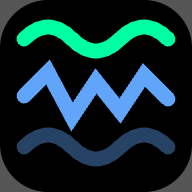
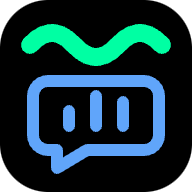
feat: 리캡 전용 파비콘 적용

diff --git a/ui/prototypes/파비콘 검토.html b/ui/prototypes/파비콘 검토.html
@@ -1,0 +1,52 @@
+<!doctype html>
+<html lang="ko" class="dark">
+<head>
+  <meta charset="utf-8">
+  <meta name="viewport" content="width=device-width, initial-scale=1">
+  <meta name="robots" content="noindex,nofollow">
+  <title>리캡 파비콘 검토</title>
+  <link rel="icon" type="image/svg+xml" href="./리캡 아이콘.svg">
+  <link rel="stylesheet" href="/styles/tokens.css">
+  <style>
+    * { box-sizing: border-box; }
+    body { margin: 0; padding: 48px 28px; background: var(--background); color: var(--foreground); font-family: var(--font-sans); }
+    main { max-width: 1040px; margin: auto; }
+    header { display: flex; gap: 24px; align-items: center; margin-bottom: 40px; }
+    header img { width: 88px; height: 88px; }
+    h1 { font-size: 30px; letter-spacing: -1px; margin: 0 0 10px; }
+    p { color: var(--muted-foreground); font-size: 14px; line-height: 1.7; margin: 0; }
+    h2 { font-size: 15px; margin: 0 0 24px; }
+    section { border: 1px solid var(--border); border-radius: 16px; padding: 28px; margin-bottom: 20px; }
+    .sizes { display: flex; align-items: end; gap: 32px; flex-wrap: wrap; }
+    figure { margin: 0; min-width: 48px; text-align: center; }
+    figure img { display: block; margin: auto; }
+    figcaption { font: 12px var(--font-mono); color: var(--muted-foreground); margin-top: 18px; }
+    .backgrounds { display: grid; grid-template-columns: 1fr 1fr; gap: 20px; }
+    .surface { border-radius: 12px; padding: 28px; min-height: 150px; }
+    .surface.light { background: #f5f5f5; color: #202420; }
+    .surface.dark { background: #171b1a; color: #edf4ef; }
+    .surface h2 { font-size: 12px; font-weight: 500; opacity: .65; }
+    .tabs { margin-top: 28px; display: flex; align-items: center; gap: 10px; border-bottom: 1px solid var(--border); padding-bottom: 16px; font-size: 13px; }
+    .tabs img { width: 16px; height: 16px; }
+    .comparison { display: flex; align-items: center; gap: 28px; flex-wrap: wrap; }
+    .comparison figure { display: flex; align-items: center; gap: 16px; text-align: left; }
+    .comparison figcaption { margin: 0; font-family: var(--font-sans); font-size: 13px; }
+    .comparison img { width: 48px; height: 48px; }
+    @media(max-width: 600px) { body { padding: 28px 16px; } section { padding: 20px; } .backgrounds { grid-template-columns: 1fr; } header { align-items: start; } h1 { font-size: 24px; } .sizes { gap: 24px; } }
+  </style>
+</head>
+<body><main>
+  <header><img src="./리캡 아이콘.svg" alt="리캡 아이콘 시안"><div><h1>리캡 파비콘</h1><p>초록 물결은 유지하고, 파란 지직선을 채팅 말풍선과 활동 막대로 바꿨습니다.<br>서비스 파비콘에 반영한 디자인입니다.</p></div></header>
+  <section><h2>실제 픽셀 크기</h2><div class="sizes" id="sizes"></div></section>
+  <div class="backgrounds">
+    <div class="surface light"><h2>밝은 배경</h2><div class="sizes" data-surface></div><div class="tabs"><img src="./리캡 아이콘.svg" alt="">치지직 리캡 · 내 채팅 기록 <span aria-hidden="true">×</span></div></div>
+    <div class="surface dark"><h2>어두운 배경</h2><div class="sizes" data-surface></div><div class="tabs"><img src="./리캡 아이콘.svg" alt="">치지직 리캡 · 내 채팅 기록 <span aria-hidden="true">×</span></div></div>
+  </div>
+  <section style="margin-top:20px"><h2>기존 아이콘과 비교</h2><div class="comparison"><figure><img src="./기존 Lab 아이콘.svg" alt="기존 Lab 파비콘"><figcaption>기존 Lab<br>물결과 지직선</figcaption></figure><span aria-hidden="true">→</span><figure><img src="./리캡 아이콘.svg" alt="리캡 파비콘 시안"><figcaption>리캡 시안<br>물결과 채팅 기록</figcaption></figure></div></section>
+  <p>SVG 시안 · 서비스 파비콘 반영 · SVG 및 크기별 PNG 저장</p>
+</main><script>
+  function samples(sizes) { return sizes.map(size => `<figure><img src="./리캡 아이콘.svg" width="${size}" height="${size}" alt="${size}px 리캡 아이콘"><figcaption>${size}px</figcaption></figure>`).join(''); }
+  document.getElementById('sizes').innerHTML = samples([16, 20, 24, 32, 48, 64, 128]);
+  document.querySelectorAll('[data-surface]').forEach(surface => surface.innerHTML = samples([16, 24, 32, 48]));
+</script></body>
+</html>

diff --git a/ui/index.html b/ui/index.html
@@ -13,11 +13,12 @@
     <meta property="og:title" content="치지직 리캡 | 내 채팅 기록과 채널별 통계 · recap" />
     <meta property="og:description" content="내가 채팅을 많이 남긴 채널과 활동 시간대를 확인하는 비공식 치지직 채팅 리캡입니다." />
     <meta property="og:url" content="https://recap.cheese-lake.com/" />
-    <!-- 아이콘. favicon.svg 는 16~24px 전용으로 지직선을 4분절로 줄인 판이다. -->
-    <link rel="icon" type="image/svg+xml" href="/favicon.svg" />
-    <link rel="icon" type="image/png" sizes="32x32" href="/favicon-32.png" />
-    <link rel="icon" type="image/png" sizes="16x16" href="/favicon-16.png" />
-    <link rel="apple-touch-icon" href="/apple-touch-icon.png" />
+    <!-- 리캡 아이콘. v 값은 이전 파비콘 캐시와 구분한다. -->
+    <link rel="icon" type="image/x-icon" sizes="16x16 32x32 48x48" href="/favicon.ico?v=recap1" />
+    <link rel="icon" type="image/png" sizes="32x32" href="/favicon-32.png?v=recap1" />
+    <link rel="icon" type="image/png" sizes="16x16" href="/favicon-16.png?v=recap1" />
+    <link rel="icon" type="image/svg+xml" sizes="any" href="/favicon.svg?v=recap1" />
+    <link rel="apple-touch-icon" sizes="180x180" href="/apple-touch-icon.png?v=recap1" />
     <link rel="preconnect" href="https://cdn.jsdelivr.net" />
     <link
       rel="stylesheet"

diff --git a/ui/privacy/index.html b/ui/privacy/index.html
@@ -5,11 +5,12 @@
     <meta name="viewport" content="width=device-width, initial-scale=1.0" />
     <meta name="description" content="recap 개인정보 처리방침" />
     <title>개인정보 처리방침 · recap</title>
-    <!-- 아이콘. favicon.svg 는 16~24px 전용으로 지직선을 4분절로 줄인 판이다. -->
-    <link rel="icon" type="image/svg+xml" href="/favicon.svg" />
-    <link rel="icon" type="image/png" sizes="32x32" href="/favicon-32.png" />
-    <link rel="icon" type="image/png" sizes="16x16" href="/favicon-16.png" />
-    <link rel="apple-touch-icon" href="/apple-touch-icon.png" />
+    <!-- 리캡 아이콘. v 값은 이전 파비콘 캐시와 구분한다. -->
+    <link rel="icon" type="image/x-icon" sizes="16x16 32x32 48x48" href="/favicon.ico?v=recap1" />
+    <link rel="icon" type="image/png" sizes="32x32" href="/favicon-32.png?v=recap1" />
+    <link rel="icon" type="image/png" sizes="16x16" href="/favicon-16.png?v=recap1" />
+    <link rel="icon" type="image/svg+xml" sizes="any" href="/favicon.svg?v=recap1" />
+    <link rel="apple-touch-icon" sizes="180x180" href="/apple-touch-icon.png?v=recap1" />
   </head>
   <body>
     <div id="root"></div>

diff --git a/ui/terms/index.html b/ui/terms/index.html
@@ -5,11 +5,12 @@
     <meta name="viewport" content="width=device-width, initial-scale=1.0" />
     <meta name="description" content="recap 이용약관" />
     <title>이용약관 · recap</title>
-    <!-- 아이콘. favicon.svg 는 16~24px 전용으로 지직선을 4분절로 줄인 판이다. -->
-    <link rel="icon" type="image/svg+xml" href="/favicon.svg" />
-    <link rel="icon" type="image/png" sizes="32x32" href="/favicon-32.png" />
-    <link rel="icon" type="image/png" sizes="16x16" href="/favicon-16.png" />
-    <link rel="apple-touch-icon" href="/apple-touch-icon.png" />
+    <!-- 리캡 아이콘. v 값은 이전 파비콘 캐시와 구분한다. -->
+    <link rel="icon" type="image/x-icon" sizes="16x16 32x32 48x48" href="/favicon.ico?v=recap1" />
+    <link rel="icon" type="image/png" sizes="32x32" href="/favicon-32.png?v=recap1" />
+    <link rel="icon" type="image/png" sizes="16x16" href="/favicon-16.png?v=recap1" />
+    <link rel="icon" type="image/svg+xml" sizes="any" href="/favicon.svg?v=recap1" />
+    <link rel="apple-touch-icon" sizes="180x180" href="/apple-touch-icon.png?v=recap1" />
   </head>
   <body>
     <div id="root"></div>

diff --git a/ui/recap/channel/index.html b/ui/recap/channel/index.html
@@ -3,6 +3,12 @@
   <head>
     <meta charset="UTF-8" />
     <meta name="viewport" content="width=device-width, initial-scale=1.0" />
+    <!-- 리캡 아이콘. v 값은 이전 파비콘 캐시와 구분한다. -->
+    <link rel="icon" type="image/x-icon" sizes="16x16 32x32 48x48" href="/favicon.ico?v=recap1" />
+    <link rel="icon" type="image/png" sizes="32x32" href="/favicon-32.png?v=recap1" />
+    <link rel="icon" type="image/png" sizes="16x16" href="/favicon-16.png?v=recap1" />
+    <link rel="icon" type="image/svg+xml" sizes="any" href="/favicon.svg?v=recap1" />
+    <link rel="apple-touch-icon" sizes="180x180" href="/apple-touch-icon.png?v=recap1" />
     <meta name="robots" content="noindex, nofollow" />
     <title>이 채널에서의 내 기록 · recap</title>
   </head>

diff --git a/ui/me/index.html b/ui/me/index.html
@@ -3,6 +3,12 @@
   <head>
     <meta charset="UTF-8" />
     <meta name="viewport" content="width=device-width, initial-scale=1.0" />
+    <!-- 리캡 아이콘. v 값은 이전 파비콘 캐시와 구분한다. -->
+    <link rel="icon" type="image/x-icon" sizes="16x16 32x32 48x48" href="/favicon.ico?v=recap1" />
+    <link rel="icon" type="image/png" sizes="32x32" href="/favicon-32.png?v=recap1" />
+    <link rel="icon" type="image/png" sizes="16x16" href="/favicon-16.png?v=recap1" />
+    <link rel="icon" type="image/svg+xml" sizes="any" href="/favicon.svg?v=recap1" />
+    <link rel="apple-touch-icon" sizes="180x180" href="/apple-touch-icon.png?v=recap1" />
     <meta name="robots" content="noindex, nofollow" />
     <title>내 정보 · recap</title>
   </head>

diff --git a/ui/recap/index.html b/ui/recap/index.html
@@ -3,6 +3,12 @@
   <head>
     <meta charset="UTF-8" />
     <meta name="viewport" content="width=device-width, initial-scale=1.0" />
+    <!-- 리캡 아이콘. v 값은 이전 파비콘 캐시와 구분한다. -->
+    <link rel="icon" type="image/x-icon" sizes="16x16 32x32 48x48" href="/favicon.ico?v=recap1" />
+    <link rel="icon" type="image/png" sizes="32x32" href="/favicon-32.png?v=recap1" />
+    <link rel="icon" type="image/png" sizes="16x16" href="/favicon-16.png?v=recap1" />
+    <link rel="icon" type="image/svg+xml" sizes="any" href="/favicon.svg?v=recap1" />
+    <link rel="apple-touch-icon" sizes="180x180" href="/apple-touch-icon.png?v=recap1" />
     <meta name="robots" content="noindex, nofollow" />
     <title>내 리캡 · recap</title>
   </head>
